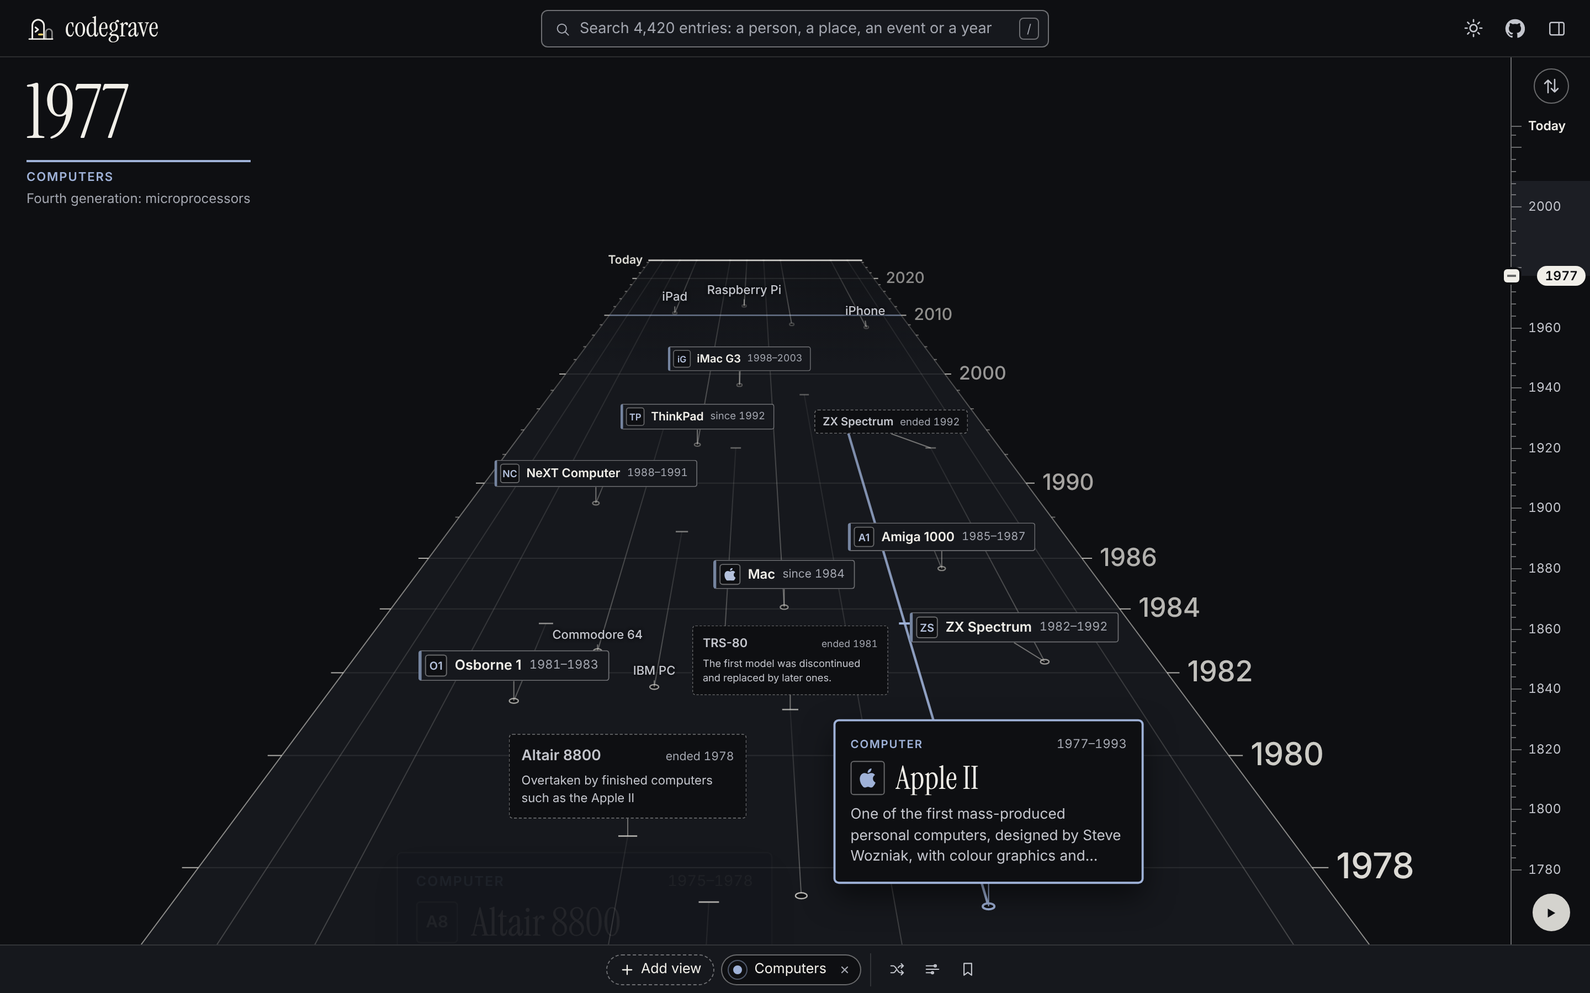
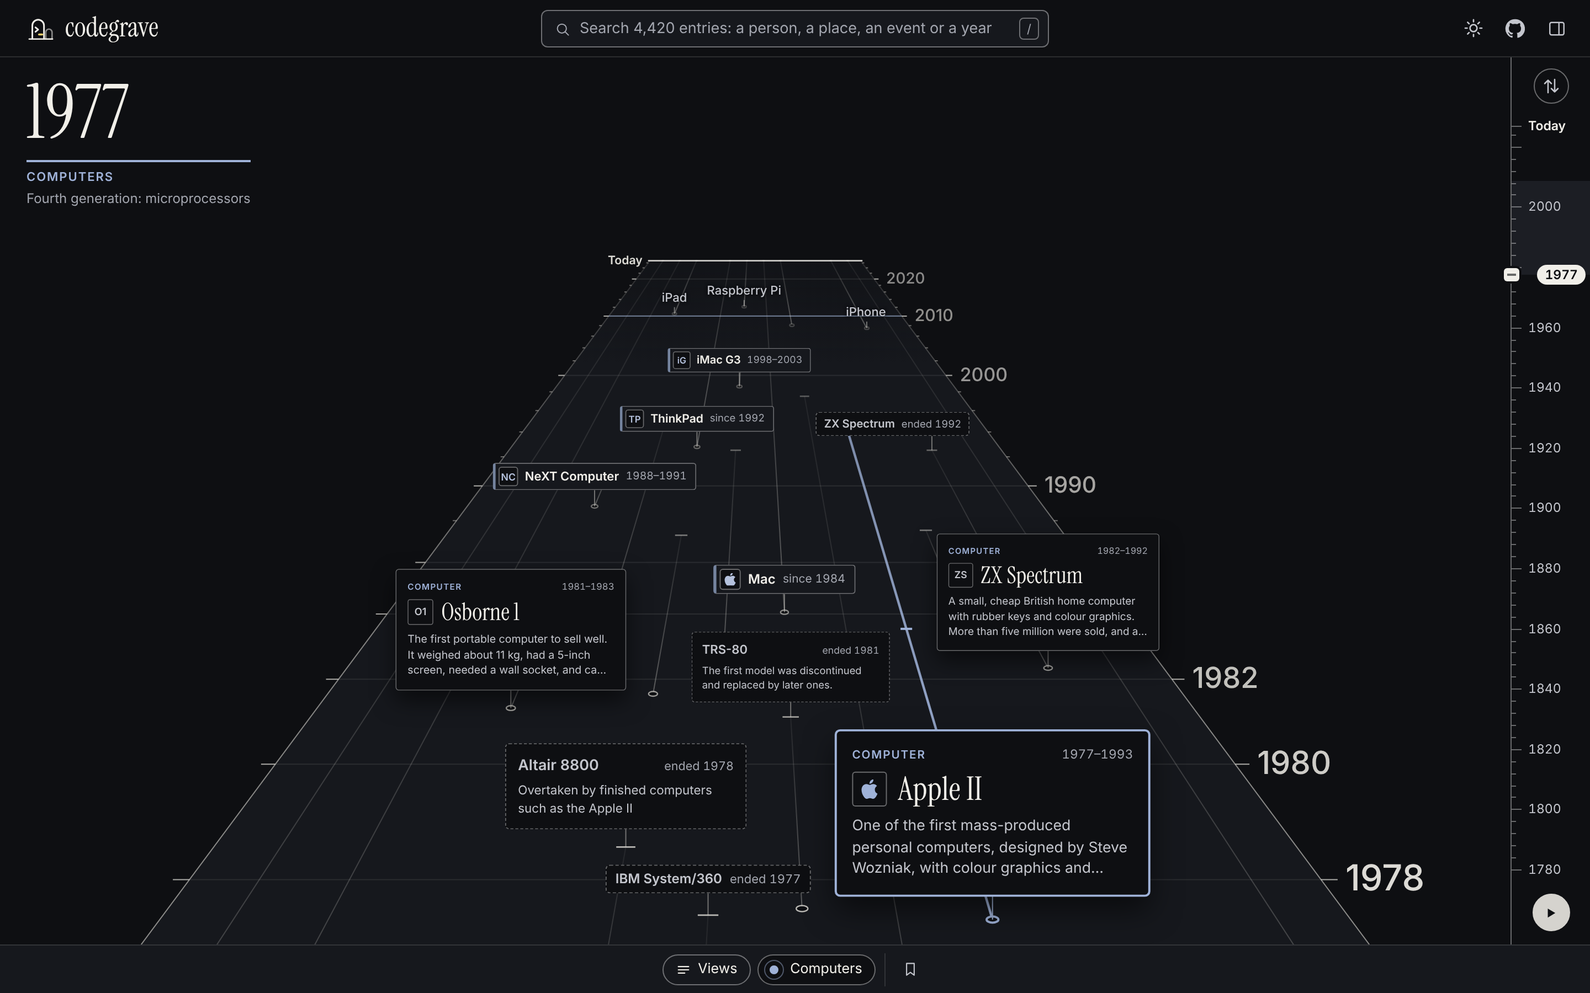
Guide, README and pictures for the road as the only timeline
AGENTS.md, the README and the docs describe the road alone, one view at a
time and the lanes' sides. The pictures of the flat timeline are removed
and the rest retaken.

Claude-Session: https://claude.ai/code/session_01MCuMSh9t4g64ThG4pNXZSJ

diff --git a/AGENTS.md b/AGENTS.md
@@ -6,9 +6,8 @@ to make a correct change.
 ## What this is
 
 codegrave.com is one page: a timeline of everything, from its start to its
-end. It opens drawn in depth, as a road that time runs along into the
-screen; one button switches to the flat timeline, left to right. It is an
-encyclopedia drawn in time: people, places, organisations, events, works,
+end. It is drawn in depth, as a road that time runs along into the screen,
+and you travel it. It is an encyclopedia drawn in time: people, places, organisations, events, works,
 ideas, living things, the Earth and the sky, and technology, with computing
 as the oldest and deepest shelf. There is no framework, no package manager
 and nothing to install. You need Node 22.
@@ -115,8 +114,8 @@ dataset, have the build work it out.
 ## How the page code is laid out
 
 `site/app.js` is one module in sections, in this order: constants, dates,
-data, state and URL, layout, render, the road, search the timeline, panel
-(views, then the history of one entry, then one era), play and scrub,
+data, state and URL, what is drawn, render, the road, search the timeline,
+panel (views, then the history of one entry, then one era), play and scrub,
 events, start. Each section starts with a `// ----` comment line with its
 name. `site/rank.js` holds the ranking and the date functions as pure
 functions with tests; `site/road.js` holds the arithmetic of the road the
@@ -125,10 +124,9 @@ search uses.
 
 The page redraws from `state` in one function, `render()`. To change
 behaviour: change `state`, then call `changed()` (which also updates the
-link) or `render()`. Do not patch the drawn page directly. There are two
-exceptions. `onScroll()` only moves names so they stay in sight. On the
-road, `roadFrame()` moves the reader and `roadDraw()` paints what is in
-sight, once a frame and only while something moves; a change of `state`
+link) or `render()`. Do not patch the drawn page directly. There is one
+exception: `roadFrame()` moves the reader and `roadDraw()` paints what is
+in sight, once a frame and only while something moves; a change of `state`
 still goes through `render()`.
 
 How the page is put together:
@@ -139,15 +137,14 @@ How the page is put together:
   every loaded entry as a single object in `byId`. A view that fails to load
   leaves a note and the page keeps working. An old address is answered by
   the build's redirect file and the link is rewritten to the new id.
-- **Two ways to draw it.** `state.mode` is `road` (the default) or `flat`
-  (`?m=flat`). The button `#mode` in the dock switches and keeps the moment
-  in sight. Both draw the same choice: `chosen()` picks the views, their
-  entries (at most `MAX_ROWS`) and the years; `layout()` lays it out flat
-  and `roadLayout()` in depth, and both leave `L` with `tMin`, `tMax`,
-  `shown` and `groups`, so the panel, the searches and links work the same
-  in both. Whatever goes somewhere (`scrollToTime()`, `scrollToThing()`,
-  `scrollToView()`, `jumpTo()`, `flashYear()`) has a road branch that calls
-  `roadTo()`. A change to the page must work in both modes.
+- **What is drawn.** `chosen()` picks the views, their entries (at most
+  `MAX_ROWS`) and the years. `roadLayout()` lays them out in depth and
+  leaves `L` with `tMin`, `tMax`, `shown`, `groups` and `lanes`, which the
+  panel, the searches and the links read. Whatever goes somewhere
+  (`roadToView()`, `roadToThing()`, `jumpTo()`, `flashYear()`) calls
+  `roadTo()`. There is one way to draw the timeline. The flat, left-to-right
+  timeline was removed in November 2026; an old link with `?m=flat` or
+  `?h=expand` simply opens the road.
 - **The road.** Time runs into the screen on a straight scale, towards one
   vanishing point. Each view is a lane and each entry a line along it, on a
   track of its own (`tracks()`). The reader stands at `road.t` facing the
@@ -155,75 +152,84 @@ How the page is put together:
   in years (`focalYears()`): what is `D` years ahead is drawn half size.
   The ground (road, lanes, years, lines, starts, ends, chapters) is one
   canvas, `#road-cv`. Names are elements in `#road-labels`: a start is a
-  card when near, a small card further off, then a bare name; an end is a
-  dashed plate with its cause. `placeLabels()` decides every frame which
-  fit, best first and capped, and they fade in and out. Wheel, drag and the
-  arrow keys travel (`roadBy()`).
+  card when near (from size `FULL`, never drawn smaller than `CARD_MIN`), a
+  small card further off, then a bare name; an end is a dashed plate with
+  its cause. `placeLabels()` decides every frame which fit, best first and
+  capped, and they fade in and out. Writing on the ground (a chapter's
+  name, a year at the edge) steps aside while a name stands over it
+  (`covered()`, `soft()`). Wheel, drag and the arrow keys travel
+  (`roadBy()`).
+- **Lanes have sides.** With more than one view, `ln.lean` is -1 for the
+  left lane, 0 for a middle one and 1 for the right lane. A card on a side
+  lane stands to the outer side of its point, like a flag on its pole
+  (`labelRect()` takes the lean), comes in from that side and leaves to it
+  (`SLIDE`); a card in the middle, or on a road of one lane, stands on its
+  point and rises into place. Keep it so: the left lane's cards never cross
+  to the right.
 - **The front card** is selected by itself: the nearest card in front of
   the reader (`road.focus`) has its line drawn in its view's colour and its
   events written along it, like the open and the hovered entry
   (`road.heat` eases the colour). It is not `state.open`; do not write one
   to the other.
-- **The bar.** On the road the axis (`#axisbar`) stands upright on the
-  right: reverse at the top, play at the bottom, the whole span between
+- **The bar** (`#axisbar`) stands upright on the right: reverse
+  (`state.order`) at the top, play at the bottom, the whole span between
   them with ahead upwards (`barY()`, `barT()`, `barTicks()`), the stretch
   in sight shaded (`#axis-win`) and the marker at the reader. Dragging the
   marker moves the reader. Play moves the reader `PLAY_PACE` focal lengths
   a second, slower while cards stand in front and quicker through empty
-  years (`paceFor()`).
-- **The flat timeline** fills the page and scrolls inside `#stage`, both ways;
-  the page itself never scrolls, so it always lays out at the width of the
-  screen. Read and set the scroll with `sx()`, `sy()` and `stageTo()`, never
-  `scrollX` or `scrollTo`. A fade with a chevron (`#edge-l`, `#edge-r`) shows
-  where the timeline goes on. The panel is hidden until its button or a
-  line is clicked. It never covers the timeline: on wide screens and tablets
-  it sits beside it and the timeline narrows; on phones (under 700 px) it is
-  a sheet over the lower half and the timeline and axis move up above it
-  (`sheetH()`). It has three panes: views, the history of one entry, and one
-  era. The entry and era panes head with a trail back (`state.trail`,
-  `crumbs()`). Opening something from inside the panel adds a step, opening
-  it from the timeline starts over, and Escape goes back one step.
-- **Views.** `state.views` is the list of views on the timeline. Each owns a
-  block of rows (a section) under its coloured heading line. An entry in two
-  views is drawn in both sections; `L.at` maps an id to its first row. A
-  view's chapters (`checkpoints`) are drawn inside its section in its
-  colour. A community view reads as a story: its rows are in order of time
-  and it opens at its first chapter or first line (`viewStartX()`,
-  `scrollToView()`); a classical view groups by kind and opens on its
-  busiest stretch. A view's name stays at the left of its section while the
-  timeline scrolls sideways. The grip under a section drags it shorter or taller
-  (`state.sizes`; a shorter section keeps its best-ranked rows). `state.fit`
-  makes the sections share the screen height; Expand lets each take what it
-  needs. The views on the timeline sit as pills in a strip under the years
-  (`#dock`): drag to reorder, the dot picks the colour, the cross removes
-  it, "Add view" opens the panel.
+  years (`paceFor()`); it eases up to speed and a pause glides to a stop
+  (`road.vel`). Space plays and pauses. At the far end the button offers to
+  play again from the beginning.
+- **The panel** is hidden until its button, the "Views" button in the strip
+  or a name is clicked. It never covers the road: on wide screens and
+  tablets it sits beside it and the road narrows; on phones (under 700 px)
+  it is a sheet over the lower half, and the road and the bar move up above
+  it. It has three panes: views, the history of one entry, and one era. The
+  entry and era panes head with a trail back (`state.trail`, `crumbs()`).
+  Opening something from inside the panel adds a step, opening it from the
+  road starts over, and Escape goes back one step.
+- **Views.** `state.views` is the list of views on the timeline, each a
+  lane, in order from the left. An entry in two views is drawn in both
+  lanes; `L.at` maps an id to its first line. A view's chapters
+  (`checkpoints`) are lines across its lane, named in its colour. The road
+  opens where the first view begins (`roadOpening()`, `laneStart()`): at its
+  first entry, or its first chapter when that opens a little before; a
+  classical view opens on its busiest stretch. The views on the timeline
+  sit as pills in a strip along the bottom (`#dock`), which scrolls
+  sideways when they do not fit: drag to reorder (with a finger, hold a
+  pill first, because a finger scrolls the strip), the dot picks the
+  colour, and the cross removes one of several.
+- **One view at a time.** Picking a view shows it alone (`showOnly()`): the
+  others leave and the road opens at its beginning. Putting a view beside
+  the others is the second action (`turnOn()`): the small plus at the end
+  of its row, a right click, Shift, Ctrl or Cmd with a click, or
+  Shift+Enter in the search. The same button takes a view off again when
+  it is one of several. An entry found by a search that no view on the
+  timeline holds brings its own view alone too (`bringIn()`); only a link
+  that names its views keeps them and adds. Do not make adding the default
+  again: it was changed on purpose.
 - **The views pane** is search, then a row of chips (`drawChips()`: All,
   then the editors' topics from `data/editors-choice.json`, today History,
   Science, Technology and Culture), then the list of community views in the
   order `boot.json` gives them (topic by topic; under All each topic has a
   small heading), then the filters: the year range (`state.span`) and how
-  much to show (`state.level`). Only community views are listed. Classical
-  views are found by the search, where every result carries an icon that
-  says which sort it is. A row is a thumbnail made by the build
-  (`scripts/thumb.mjs`), which is also the switch that puts the view on the
-  timeline, then the name and one quiet line (`viewSub()`: the years the view
-  covers and how many entries it holds). The description is the row's tooltip
-  and is searched; it is not printed in the list. Keep the row to those two
-  lines.
-- **Time**, flat, is a straight scale left to right (`L.xOf`, `L.tOf`) with
-  the years on the fixed axis at the bottom. `axisTicks()` picks round steps
-  from one year to a billion; there is no year 0; deep time is labelled ka,
-  Ma and Ga. A long view is fitted to a few screens (`MAX_SCREENS`). When a
-  few entries start far earlier than the rest, the view opens on the rest
-  and "Show all years" reaches back. Every date on the page goes through
-  `fmtDate()` and `spanText()`, which read BCE and deep-time dates.
+  much to show (`state.level`). On a phone the filters fold into one line
+  (`#filters-btn`) so the list has the sheet. Only community views are
+  listed. Classical views are found by the search, where every result
+  carries an icon that says which sort it is. A row is a thumbnail made by
+  the build (`scripts/thumb.mjs`), then the name and one quiet line
+  (`viewSub()`: the years the view covers and how many entries it holds).
+  The description is the row's tooltip and is searched; it is not printed
+  in the list. Keep the row to those two lines.
+- **Time** is a straight scale. `ruler()` writes the years along the edge
+  of the road and `axisTicks()` those on the bar, in round steps from one
+  year to a billion; there is no year 0; deep time is labelled ka, Ma and
+  Ga. When a few entries start far earlier than the rest, the view opens on
+  the rest and "Show all years" reaches back. Every date on the page goes
+  through `fmtDate()` and `spanText()`, which read BCE and deep-time dates.
 - **Words.** A person is born and dies; a city is founded; a species goes
   extinct. The words come from the entry's branch (`words` in `boot.json`,
   `wordsNow()` for mixed text).
-- **Play**, flat, sits at the bottom left of the axis and reverse
-  (`state.order`) at the bottom right. A marker on the axis (`play.t`, null at the far end)
-  can be dragged at any time; the timeline shows only what had happened by
-  then. Play moves the same marker and crosses any span in about 20 seconds.
 - **The top search** (`findOnTimeline()`) finds entries, events, chapters
   and years among what is drawn and goes there; it understands `44 BCE` and
   `66 ma`. Below a divider it lists matches from the search index that are
@@ -231,9 +237,9 @@ How the page is put together:
   name always beats a match in another name), then base before community,
   then rank, then popularity. For a year that is not drawn it lists what
   began or ended in that year (`entriesInYear()`), and the panel's search
-  does the same. Picking one (`bringIn()`)
-  fetches the entry, adds its home view and opens it. When nothing matches
-  it offers "Suggest …", which opens the "New entry" issue form.
+  does the same. Picking one (`bringIn()`) fetches the entry, shows its
+  home view and opens it. When nothing matches it offers "Suggest …", which
+  opens the "New entry" issue form.
 - **The entry pane** shows the kind and branch, labels, other names, every
   event, link and source, and a note when the entry is a community entry.
   A link to an entry that is not loaded shows its name and loads on click.
@@ -241,22 +247,22 @@ How the page is put together:
   form with the current link filled in. The bookmark icon saves the timeline
   as "Your view" in this browser (`cg-mine`, one slot), and the page opens
   on it when the link names no views.
-- Lines are neutral. Colour is only for view names and the open line.
-- On the flat timeline an entry with `rank < CARD_RANK` gets a card; the
-  rest get a name. On the road it is distance that decides.
+- Lines are neutral. Colour is only for view names and the selected line.
+- Whether a name is a card is decided by distance, not by rank.
 
-Layout draws at most `MAX_ROWS` lines, best ranked first, so it stays fast
-at any data size. The road keeps the same cap, draws its lines on one
-canvas and makes an element only for the few names in sight. Keep it that
-way: never draw one element per entry without a cap, and never make the
-page fetch a chain of files to answer one click.
+The road draws at most `MAX_ROWS` lines, best ranked first, so it stays
+fast at any data size. It draws them on one canvas and makes an element
+only for the few names in sight. Keep it that way: never draw one element
+per entry without a cap, and never make the page fetch a chain of files to
+answer one click.
 
 ## Before you finish
 
 - `node scripts/build.mjs --check` prints `0 errors`.
 - `node --test` passes.
 - If you changed the page, load it and check the browser console is clean at
-  1440 and 390 pixels wide, on the road and on the flat timeline (`?m=flat`).
+  1440 and 390 pixels wide. Watch it move as well: press play, and look at a
+  road of two or three views, since cards behave differently by lane.
 - If what the page shows changed (a view, an entry, or `site/`), take
   screenshots at 1440 and 390 pixels wide for the pull request. With
   Playwright: build, serve `site/` on a local port, open

diff --git a/README.md b/README.md
@@ -11,12 +11,10 @@
 timeline. Every entry is one line from its start to its end: a person from
 birth to death, an empire from founding to fall, a species to its
 extinction, a programming language from first release to end of support.
-The page opens with the timeline drawn in depth: time runs into the screen
-like a road, with the years along its edge, and play carries you along it.
-One button switches to the flat timeline in the pictures below, where time
-runs left to right with the years along the bottom. It began as a timeline
-of computing, and computing is still its deepest shelf. Click a card or a
-line to read its history, with dates, sources, links and images.
+The timeline is drawn in depth: time runs into the screen like a road, with
+the years along its edge, and play carries you along it. It began as a
+timeline of computing, and computing is still its deepest shelf. Click a
+card or a line to read its history, with dates, sources, links and images.
 
 The base holds about 4,400 entries on one map of ten branches: People,
 Places, Organisations, Events, Arts & media, Knowledge & belief, Society &
@@ -28,37 +26,38 @@ tell the story in order.
 
 <table>
   <tr>
-    <td width="74%" valign="top"><img src="docs/screenshots/desktop.png" alt="codegrave on a wide screen: the view Ancient Rome drawn as lines and chapters, with the entry for Julius Caesar open in the side panel"></td>
-    <td width="26%" valign="top"><img src="docs/screenshots/phone.png" alt="codegrave on a phone in the dark theme: the view Dinosaurs, with its chapters and the years in millions"></td>
+    <td width="74%" valign="top"><img src="docs/screenshots/road.png" alt="codegrave on a wide screen: the views The Space Race and Computers as two lanes of a road that runs into the distance, with cards standing where things began"></td>
+    <td width="26%" valign="top"><img src="docs/screenshots/road-phone.png" alt="codegrave on a phone: one view as a road, with the year, the cards and the upright bar on the right"></td>
   </tr>
   <tr>
     <td align="center"><sub>Wide screen, light theme</sub></td>
-    <td align="center"><sub>Phone, dark theme</sub></td>
+    <td align="center"><sub>Phone</sub></td>
   </tr>
 </table>
 
 ## What the page does
 
 - **One subject, one view.** The panel lists the views under four topics:
-  History, Science, Technology and Culture. Each view on the timeline gets
-  its own section under a coloured heading, with its chapters drawn in its
+  History, Science, Technology and Culture. Pick one and the road shows it
+  alone, from its beginning, with its chapters drawn across it in its
   colour. Click a chapter to read it.
 - **Any stretch of time.** The same axis shows a decade of software, three
   thousand years of empires, or four billion years of the Earth. Dates
   before the common era and deep time are first-class.
-- **Side by side.** Put up to eight views on the timeline at once and see
-  what was happening at the same moment in different stories.
-- **Fit or Expand.** Fit shares the screen height between the sections.
-  Expand lets each section take what it needs and the page scrolls. Drag the
-  grip under a section to make it shorter or taller; a shorter section keeps
-  its best-ranked lines.
+- **Side by side.** The small plus at the end of a row (or a right click)
+  puts a view beside the ones already there, each in a lane of its own, so
+  you see what was happening at the same moment in different stories. The
+  left lane's cards stand on the left and the right lane's on the right.
+  Two lanes are comfortable; up to eight fit.
 - **Search.** The top search finds entries, events, chapters and years on
   the timeline (try `44 BCE`). Below them it lists matches from the whole
   encyclopedia, and picking one brings it onto the timeline. The panel's
   search finds views: the listed ones, and the classical shelves (Everything,
   each branch, each kind) with their type marked.
-- **Play and reverse.** Play moves a marker through time so the timeline
-  shows only what had happened by then. Reverse flips the order of the lines.
+- **Play and reverse.** Play carries you along the road, slower where much
+  happens and quicker through empty years. The wheel, a drag, the arrow keys
+  and the upright bar on the right travel too. Reverse turns you round to
+  start at the present and go back.
 - **One link for everything.** The address holds the views, their order and
   colours, the year range and the open entry, so any state can be shared.
 - **Fast at any size.** The page never loads the whole dataset. Each action

diff --git a/docs/VIEWS.md b/docs/VIEWS.md
@@ -19,7 +19,9 @@ Every view has its own link. A community view's address is its owner and its
 id, as on GitHub: `codegrave.com/?views=codegrave/the-space-race`. A
 classical view's address is its id: `?views=rulers`. A link can name
 several: `?views=people,codegrave/the-space-race`. Each view on the
-timeline gets its own block of rows under its name.
+timeline gets a lane of its own on the road. Picking a view in the panel
+shows it alone; the small plus at the end of its row, or a right click, puts
+it beside the ones already there.
 
 A view only chooses what to show. It never changes a fact. Dates, names,
 causes and ranks come from the entries and are the same in every view.
@@ -78,9 +80,9 @@ the profile if you have none.
 | `labels` | no | Up to 4 labels from `data/labels.json`, for what the view is about. |
 | `tags` | no | Up to 8 words people might search for. |
 | `entries` | yes, for a hand-picked view | The entries the view shows, by id: any base entry, or an entry of your own. The older name `things` still works. |
-| `checkpoints` | no | The chapters: named eras with `id`, `name`, whole-year `from` and `to` (negative before the common era, never 0) and a `note` of at most 400 characters. They must not overlap. They are drawn inside the view's section, in its colour, and clicking one opens its note with what began and ended in those years. |
-| `year` | no | The year to centre on when the timeline is wider than the screen. |
-| `order` | no | `"old"` (the default, oldest on the left) or `"new"`. |
+| `checkpoints` | no | The chapters: named eras with `id`, `name`, whole-year `from` and `to` (negative before the common era, never 0) and a `note` of at most 400 characters. They must not overlap. They are drawn as lines across the view's lane, named in its colour, and clicking one opens its note with what began and ended in those years. |
+| `year` | no | Not read for a hand-picked view, which opens at its beginning. Older files may carry it. |
+| `order` | no | `"old"` (the default: the road starts at the oldest and runs towards the present) or `"new"` (it starts at the present and runs back). |
 | `image` | no | The thumbnail: a picture with `src`, `alt`, `credit`, `licence` and `source`, as for an entry's image. Leave it out and the build draws a miniature of the view's own lines. |
 | `categories`, `domains`, `level` | no | Instead of `entries`: draw the view from whole kinds or branches of the base, showing the top `level` percent (5 to 100). Such a view grows by itself as entries are added. |
 
@@ -88,7 +90,7 @@ A view holds any number of entries, and its file on the site carries the 200
 best ranked. A good view has 20 to 50.
 
 An entry may be in any number of views. One that is in two views on the
-timeline is drawn in both sections, so every view always shows all of its
+timeline is drawn in both lanes, so every view always shows all of its
 own.
 
 ## Your own entries

diff --git a/docs/DATA_RULES.md b/docs/DATA_RULES.md
@@ -313,6 +313,6 @@ an entry feeds only the order of search results (`docs/BUILD.md`).
 - A checkpoint is a named era with whole-year `from` and `to` (negative
   before the common era, never 0). Checkpoints of one list must not overlap.
   A `note` is at most 400 characters. A view carries its own eras, drawn
-  inside its section (see `docs/VIEWS.md`); `data/checkpoints.json` holds a
+  across its lane (see `docs/VIEWS.md`); `data/checkpoints.json` holds a
   shared list that is not drawn.
 - Views are covered in `docs/VIEWS.md`.
